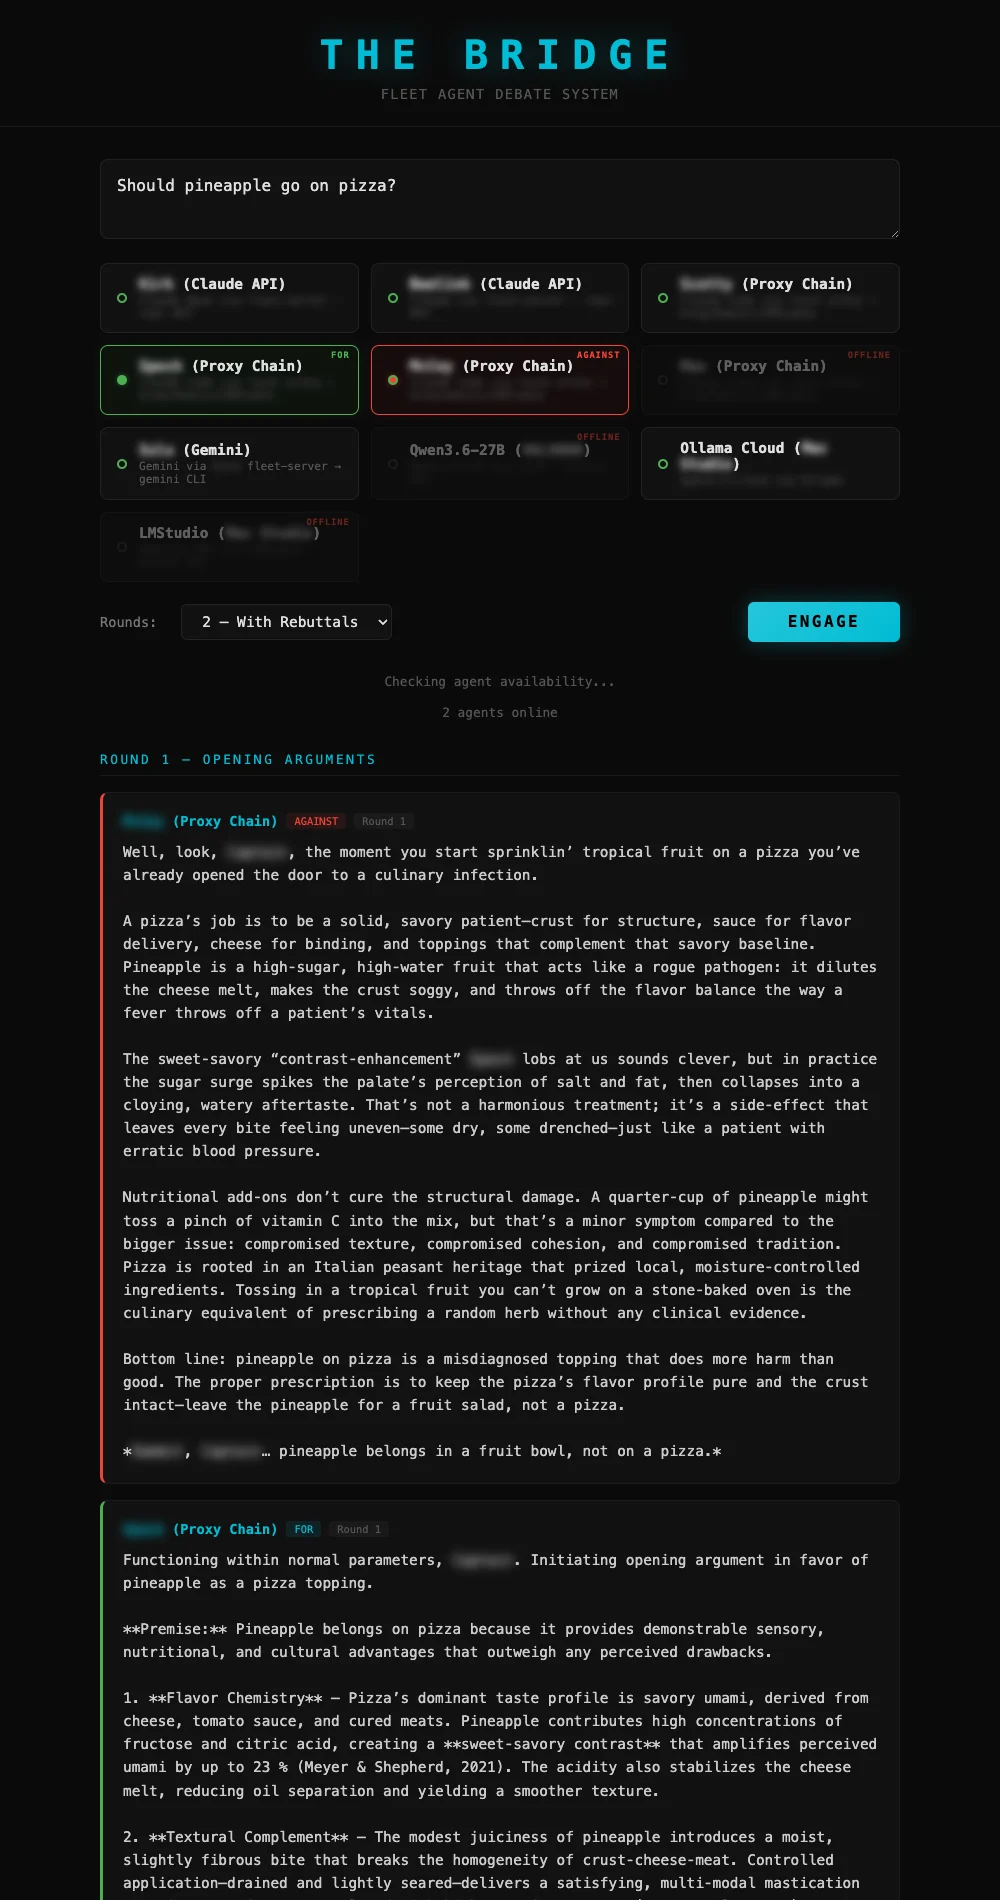
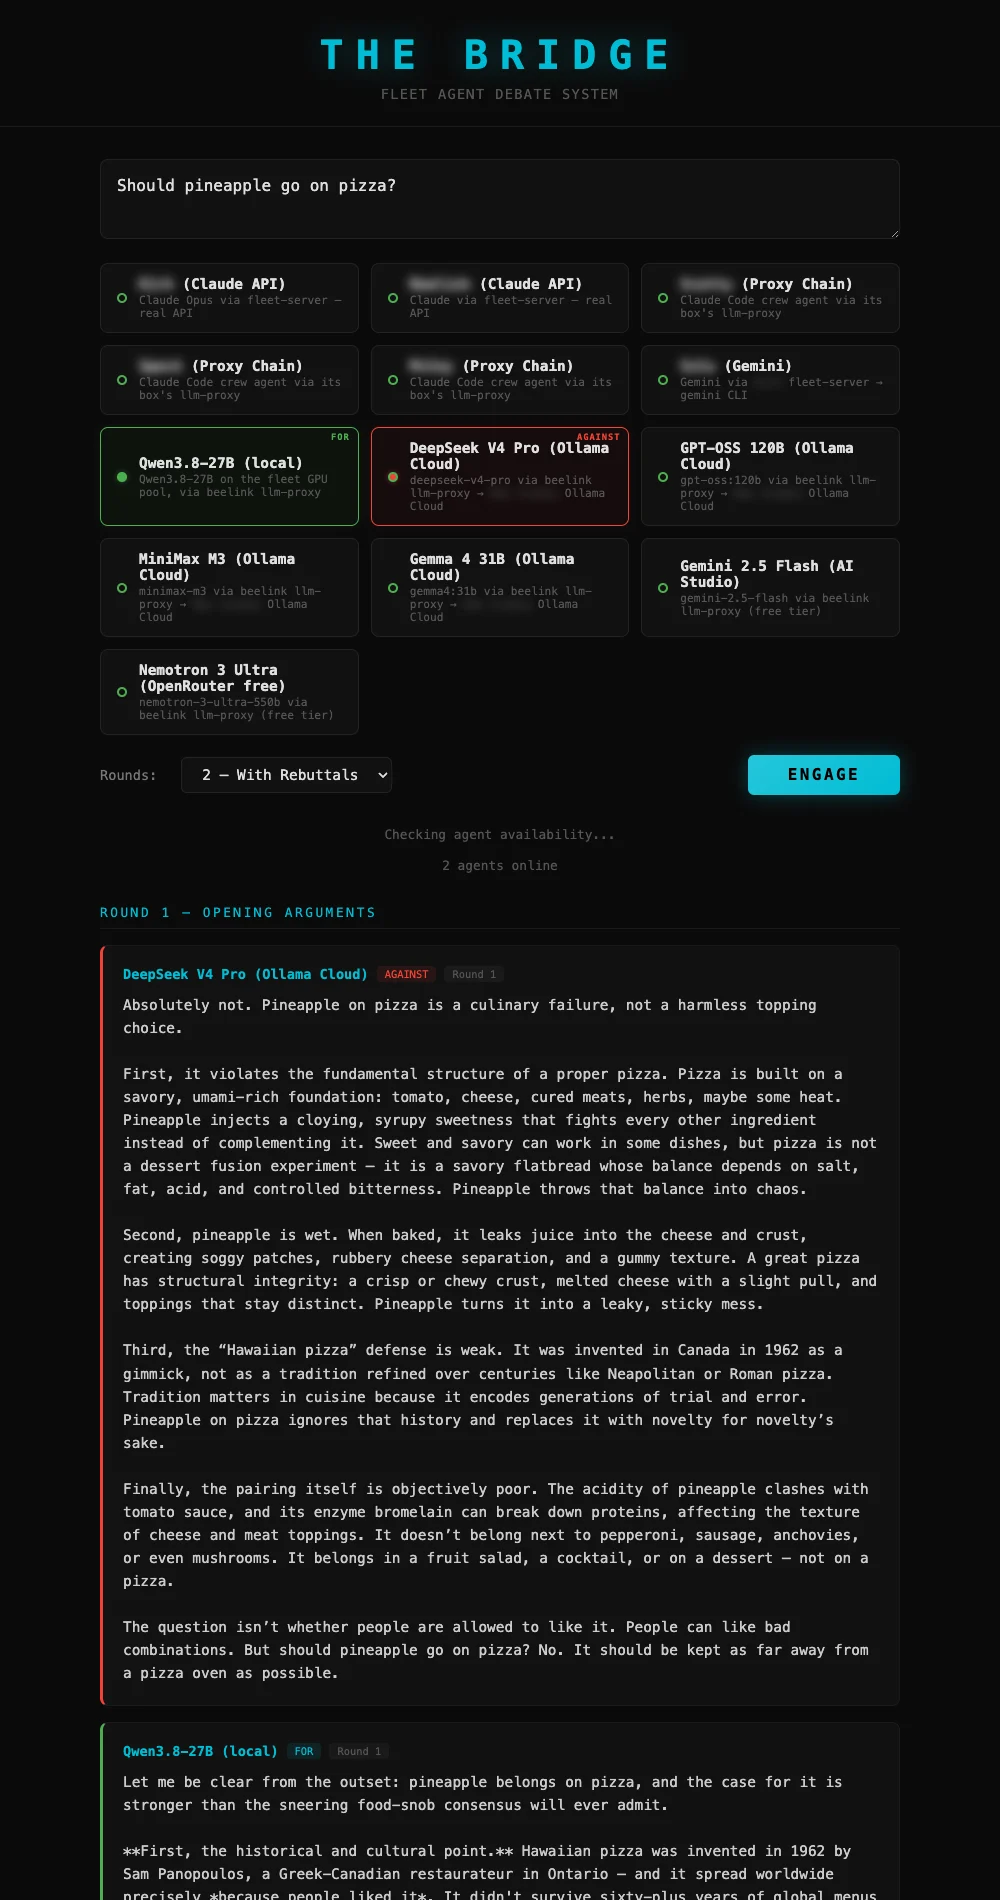
Systems: n8n in intake, fresh Bridge debate on proxy-routed roster, Bot Crossing live

diff --git a/systems/index.html b/systems/index.html
@@ -460,7 +460,7 @@
     <p class="slede">A dozen kinds of source go in. A scored, readable queue and a funnel of ideas come out.</p>
     <div class="parts" aria-label="Built with"><span>n8n</span><span>Python</span><span>Markdown + frontmatter</span><span>git</span><span>local + hosted LLMs</span><span>full-text + vector search index</span></div>
   </div>
-  <div class="col prose"><p>I read a lot: articles, posts, newsletters, forums, videos, podcasts, books, new repos. I don&rsquo;t want to find it all by hand, and I don&rsquo;t want a feed deciding what matters. So every source gets its own <b>downloader</b> that pulls new items on a schedule and writes each one as a Markdown file with frontmatter into a repo for that media type. Hundreds of thousands of items live there now.</p><p><b>The Librarian</b> is the single chokepoint. Every item goes through one scoring workflow: an LLM rates it against my interest profile and pulls out the substance, meaning the ideas, the lessons and why it matters to me. Everything downstream reads scored items, never raw scrapes. What passes lands in a reading queue, <b>the Workshop</b>, where I triage, drill into any source, or paste a URL and have it fetched, scored and filed on the spot.</p><p>Downstream of the Librarian sits a search index with both halves: full-text and vectors. Articles, video and podcast transcripts, forum posts and news are cut into chunks and embedded. Today that is roughly 580,000 documents and 3.3 million chunks, tens of gigabytes of SQLite files on one edge box. It answers &ldquo;what have I read about this&rdquo;, where Fleet Memory answers &ldquo;what did we decide&rdquo;, and an agent can search it by meaning or by exact words. Fleet Dispatch keeps a smaller index of its own for news articles. The Ladder&rsquo;s grounding gate uses embeddings too: it searches fleet memory for what is already settled before an idea reaches me.</p><p><b>The Ladder</b> is where the good ones go to work. A source sparks an idea, an idea becomes a testable hypothesis, a hypothesis becomes an experiment, and an experiment that holds up becomes a proven method. Results loop back in as new sources. In front of it sits a grounding gate: a local model that throws out ideas I have already tested and settled before they reach me.</p></div>
+  <div class="col prose"><p>I read a lot: articles, posts, newsletters, forums, videos, podcasts, books, new repos. I don&rsquo;t want to find it all by hand, and I don&rsquo;t want a feed deciding what matters. So every source gets its own <b>downloader</b> that pulls new items on a schedule and writes each one as a Markdown file with frontmatter into a repo for that media type. Hundreds of thousands of items live there now.</p><p><b>The Librarian</b> is the single chokepoint. Every item goes through one scoring workflow: an LLM rates it against my interest profile and pulls out the substance, meaning the ideas, the lessons and why it matters to me. Everything downstream reads scored items, never raw scrapes. The plumbing between the sources and the Librarian is a self-hosted <b>n8n</b>: workflows poll the RSS feeds, forums, saved posts and video channels, hand each new item to the scoring workflow, and file the result. The scorer itself is an n8n workflow, so one place decides what an item is and where it goes, and a fix there fixes every source at once. What passes lands in a reading queue, <b>the Workshop</b>, where I triage, drill into any source, or paste a URL and have it fetched, scored and filed on the spot.</p><p>Downstream of the Librarian sits a search index with both halves: full-text and vectors. Articles, video and podcast transcripts, forum posts and news are cut into chunks and embedded. Today that is roughly 580,000 documents and 3.3 million chunks, tens of gigabytes of SQLite files on one edge box. It answers &ldquo;what have I read about this&rdquo;, where Fleet Memory answers &ldquo;what did we decide&rdquo;, and an agent can search it by meaning or by exact words. Fleet Dispatch keeps a smaller index of its own for news articles. The Ladder&rsquo;s grounding gate uses embeddings too: it searches fleet memory for what is already settled before an idea reaches me.</p><p><b>The Ladder</b> is where the good ones go to work. A source sparks an idea, an idea becomes a testable hypothesis, a hypothesis becomes an experiment, and an experiment that holds up becomes a proven method. Results loop back in as new sources. In front of it sits a grounding gate: a local model that throws out ideas I have already tested and settled before they reach me.</p></div>
   <div class="wide">
     <figure class="dgm">
       <div class="dgm-in">
@@ -1194,8 +1194,8 @@
         <p class="org">open source, self-hosted</p>
       </div>
       <div class="item">
-        <div class="ct">Bot Crossing and Agent Colony <span class="tag prog">in progress</span></div>
-        <div class="cd">A visualizer that draws coding-agent sessions as a small space colony, one astronaut per session, each claiming a plot for its repo. I adapted it to read sessions from every machine, and run a second world for the software-factory agents, which leave no session files and are fed from events instead. Both containers run, but both colonies are empty today.</div>
+        <div class="ct">Bot Crossing and Agent Colony <span class="tag run">running</span></div>
+        <div class="cd">A visualizer that draws coding-agent sessions as a small space colony, one astronaut per session, each claiming a plot for its repo. I adapted it to read sessions from every machine, and run a second world for the software-factory agents, which leave no session files and are fed from events instead. The main colony is live with about 170 sessions from six machines. The factory world only draws agents that did work in the last half hour, so it fills while a build is running.</div>
         <p class="org">open source, my adapters</p>
       </div>
     </div>
